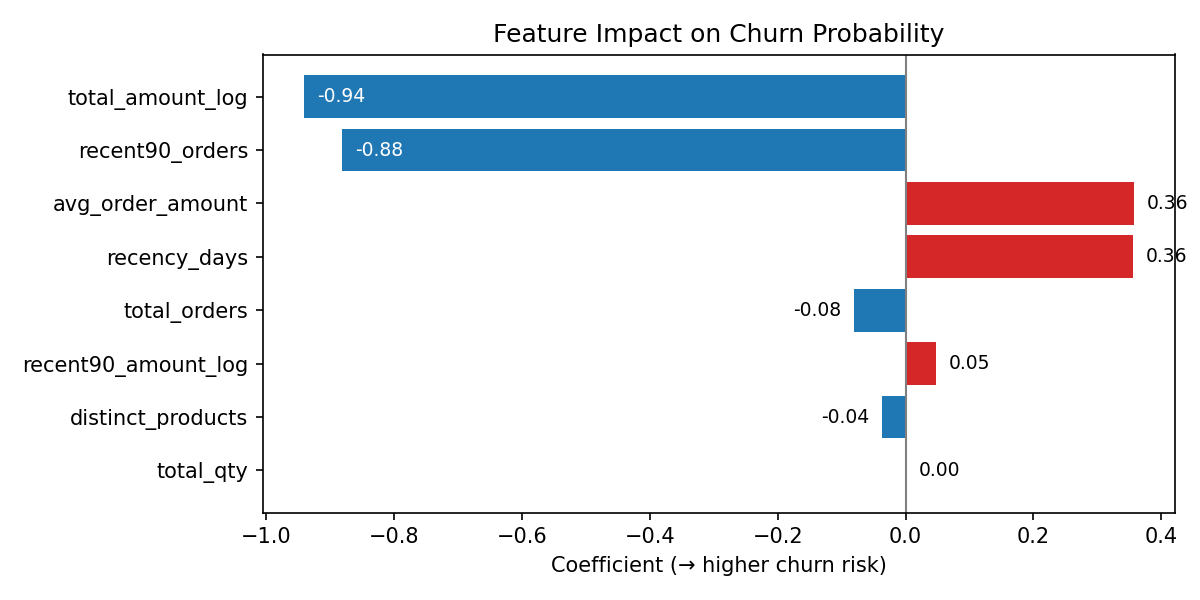
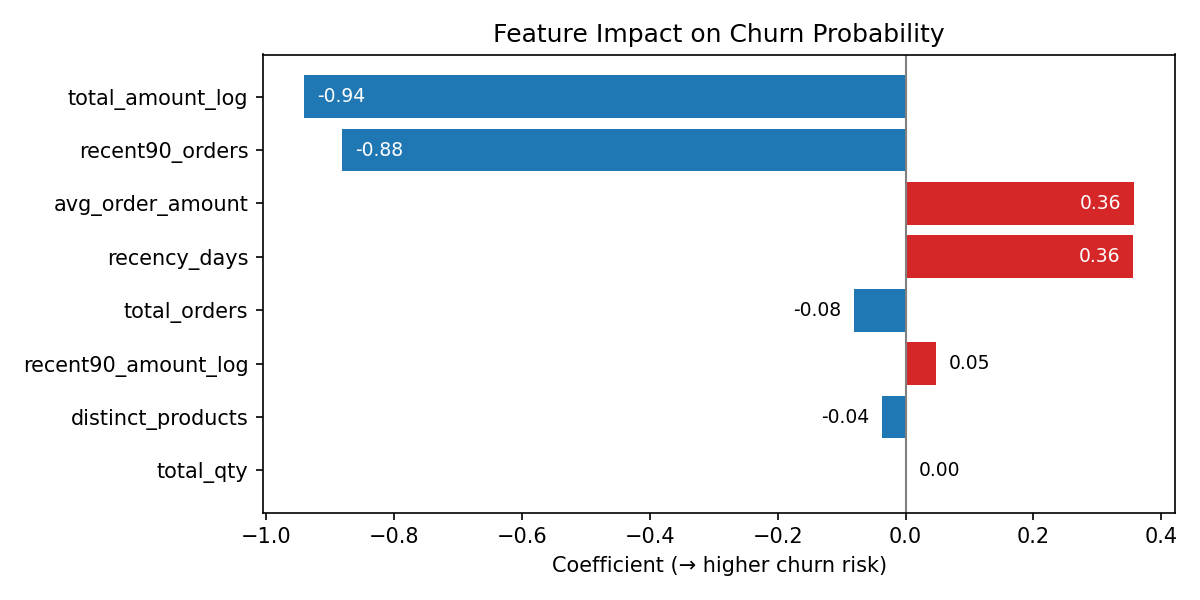
mv serve_api and updated readme

diff --git a/pipeline/plot_feature_importance.py b/pipeline/plot_feature_importance.py
@@ -39,7 +39,7 @@ def plot_signed_bars(df: pd.DataFrame, out_path: Path, top: int = 0) -> None:
     for i, (coef, bar) in enumerate(zip(df["coefficient"], bars)):
         label = f"{coef:.2f}"
         width = bar.get_width()
-        inside = abs(coef) >= 0.5
+        inside = abs(coef) >= 0.3
         if coef > 0:
             # Positive side
             x = width - 0.02 if inside else width + 0.02

diff --git a/README.md b/README.md
@@ -49,6 +49,36 @@ Customers were segmented into **three behavioral groups** — _active repeat, ch
 
 - **Serving:** A lightweight FastAPI service provides batch and single-customer prediction endpoints.
 
+## Project Structure
+
+```graphql
+pyspark-retention-pipeline/
+├── data/
+│   ├── raw/                 # Original Kaggle CSV
+│   ├── processed/           # Parquet feature tables and train/val/test splits
+│   └── models/
+│       └── latest_model/    # Trained Spark PipelineModel + metrics.json
+│
+├── docs/
+│   ├── threshold_curve.png
+│   ├── feature_importance.png
+│
+├── notebooks/
+│   └── eda_online_retail.ipynb   # Exploratory data analysis and feature rationale
+│
+├── pipeline/
+│   ├── etl.py               # Data cleaning, feature engineering, labeling
+│   ├── train.py             # Model training + cross-validation
+│   ├── eval.py              # Evaluation on test set
+│   └── serve_api.py         # FastAPI inference service
+│
+├── Makefile
+├── requirements.txt
+├── .gitignore
+└── README.md
+
+```
+
 ## Key Design Decisions
 
 - **Time-based feature generation (cutoff control)**  
@@ -130,4 +160,3 @@ Response:
 ```
 
 > The API reuses the Spark `PipelineModel` for end-to-end reproducibility from feature preprocessing to prediction.
-# pyspark-retention-pipeline
